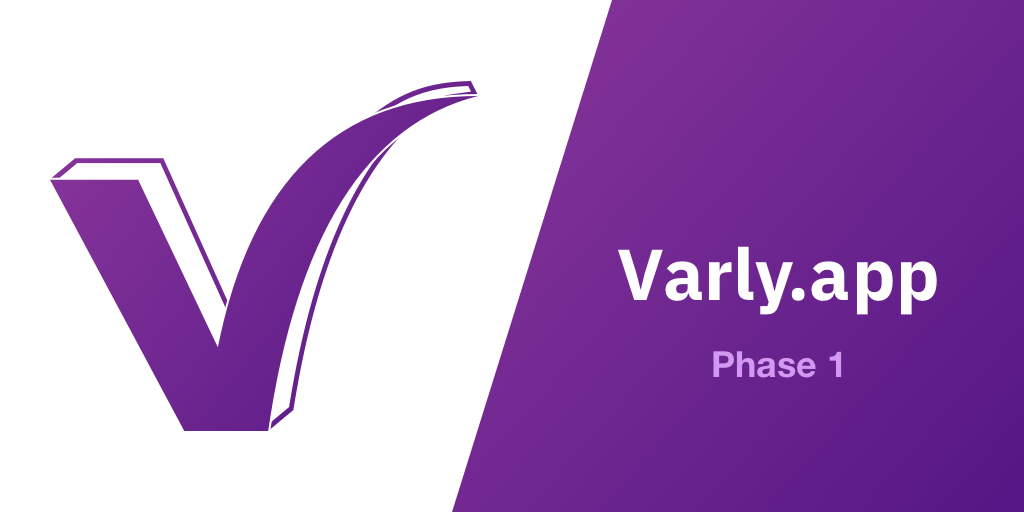
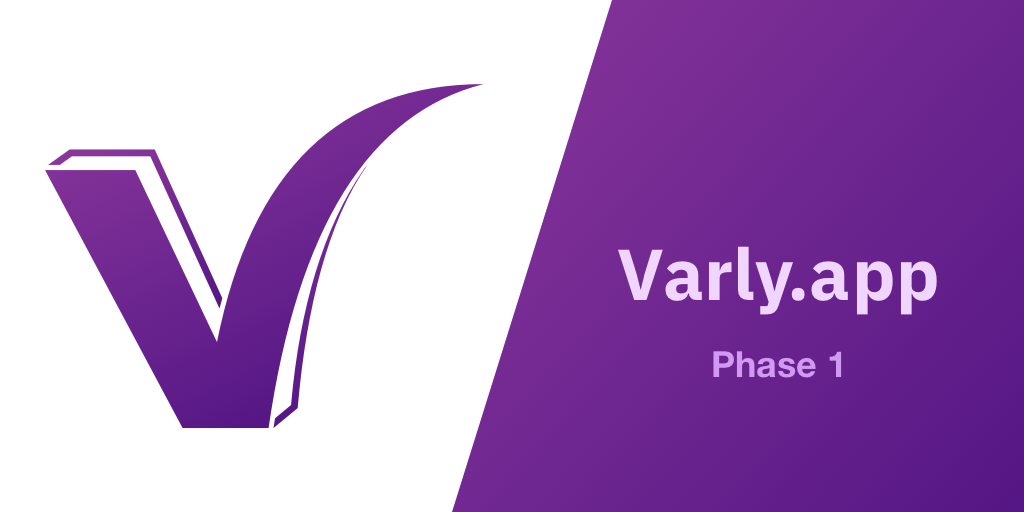
Update preview with new logomark

diff --git a/README.md b/README.md
@@ -1,4 +1,4 @@
-![Varly.app](https://s3.us-west-2.amazonaws.com/cdn.selvin.dev/Varly.png)
+![Varly.app](https://s3.us-west-2.amazonaws.com/cdn.selvin.dev/varly-preview.png)
 
 # Varly.app
 > A delightful **desktop app** for busy NFT artists and creators who don't want to spend valueable time downloading sketchy software, stressing over configuration files, and watching hours of YouTube videos.
